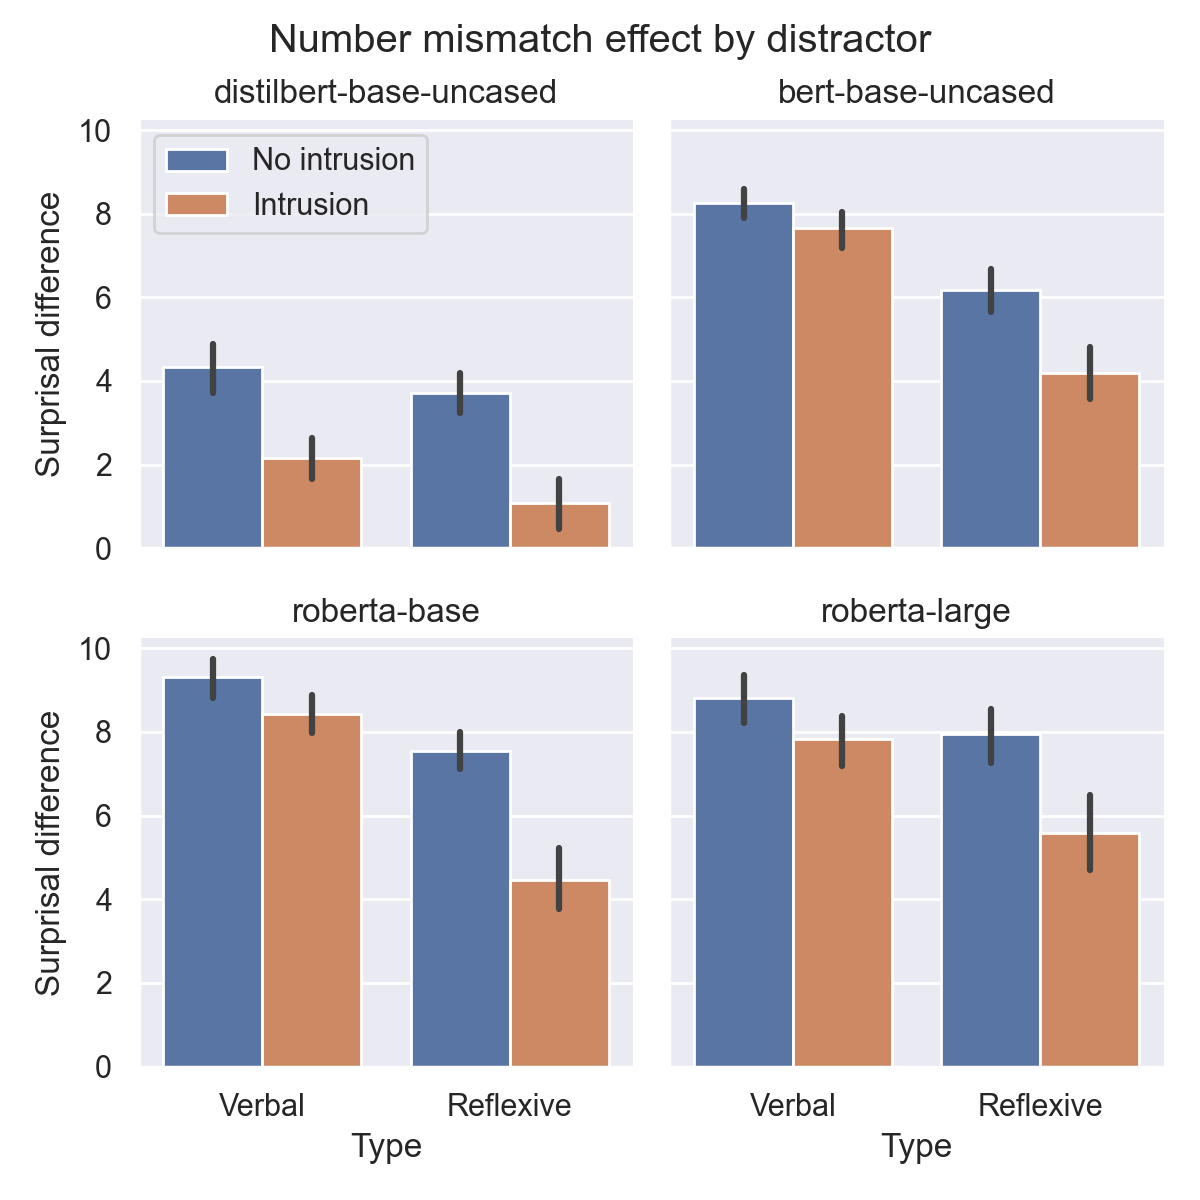
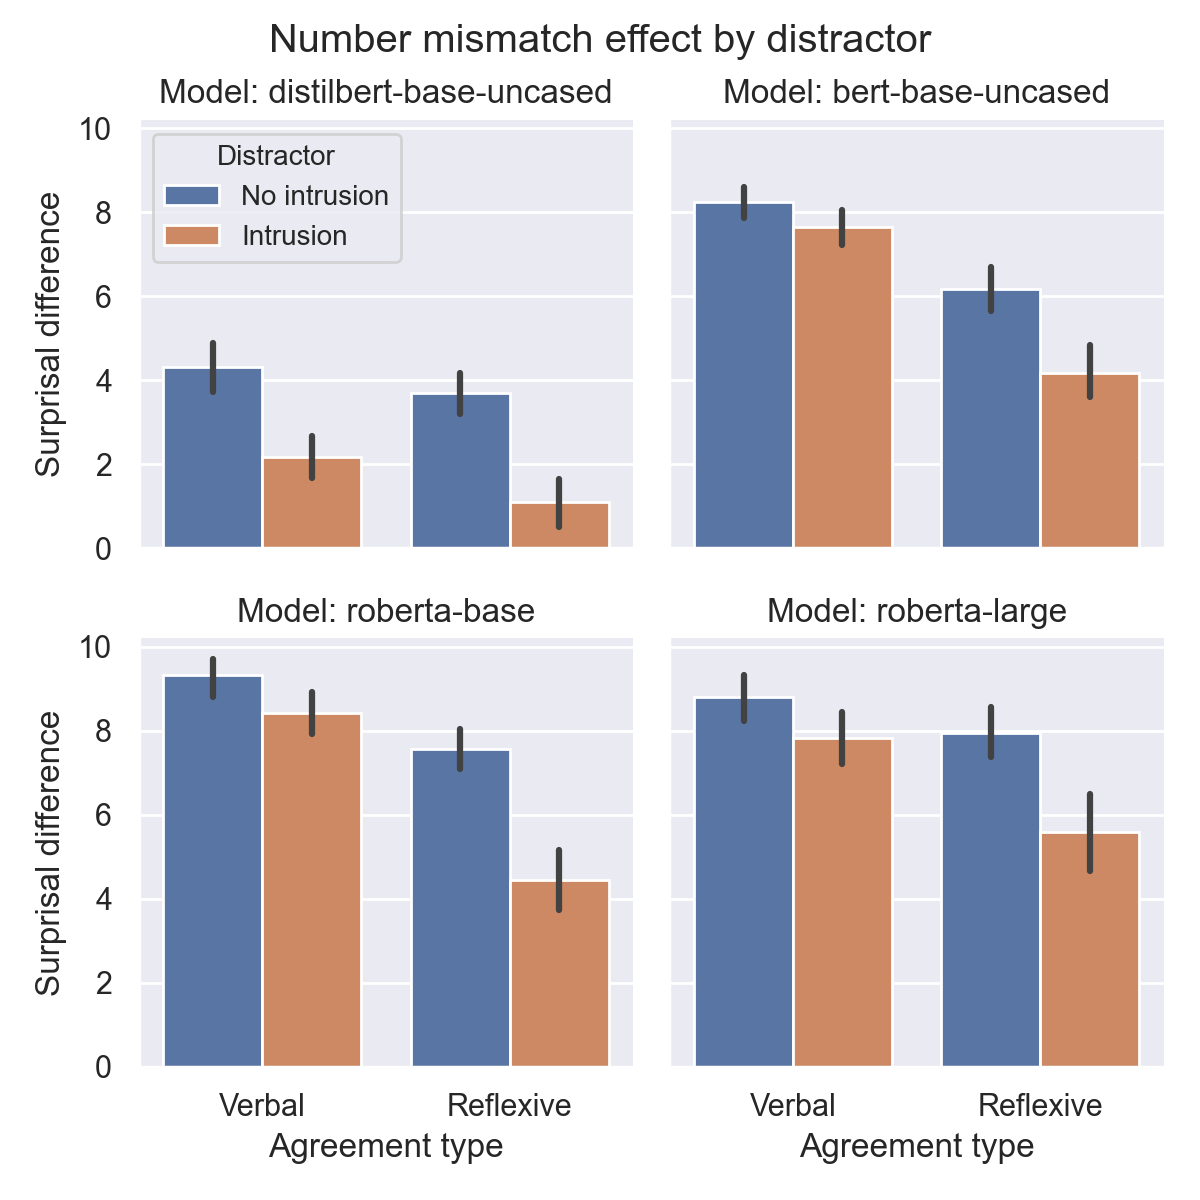
Label changes

diff --git a/tasks/attraction/attraction_new.py b/tasks/attraction/attraction_new.py
@@ -54,12 +54,13 @@ g.map_dataframe(
     # errorbar=None
 )
 g.set_ylabels('Surprisal difference')
-g.set_titles('{col_name}')
+g.set_xlabels('Agreement type')
+g.set_titles('Model: {col_name}')
 
 g.figure.subplots_adjust(top=.9)
 g.figure.suptitle('Number mismatch effect by distractor')
 
-g.axes.flat[0].legend(loc='upper left')
+g.axes.flat[0].legend(loc='upper left', fontsize='small', title='Distractor', title_fontsize='small')
 
 # plt.show()
 plt.savefig(f'plots/attraction.png')
